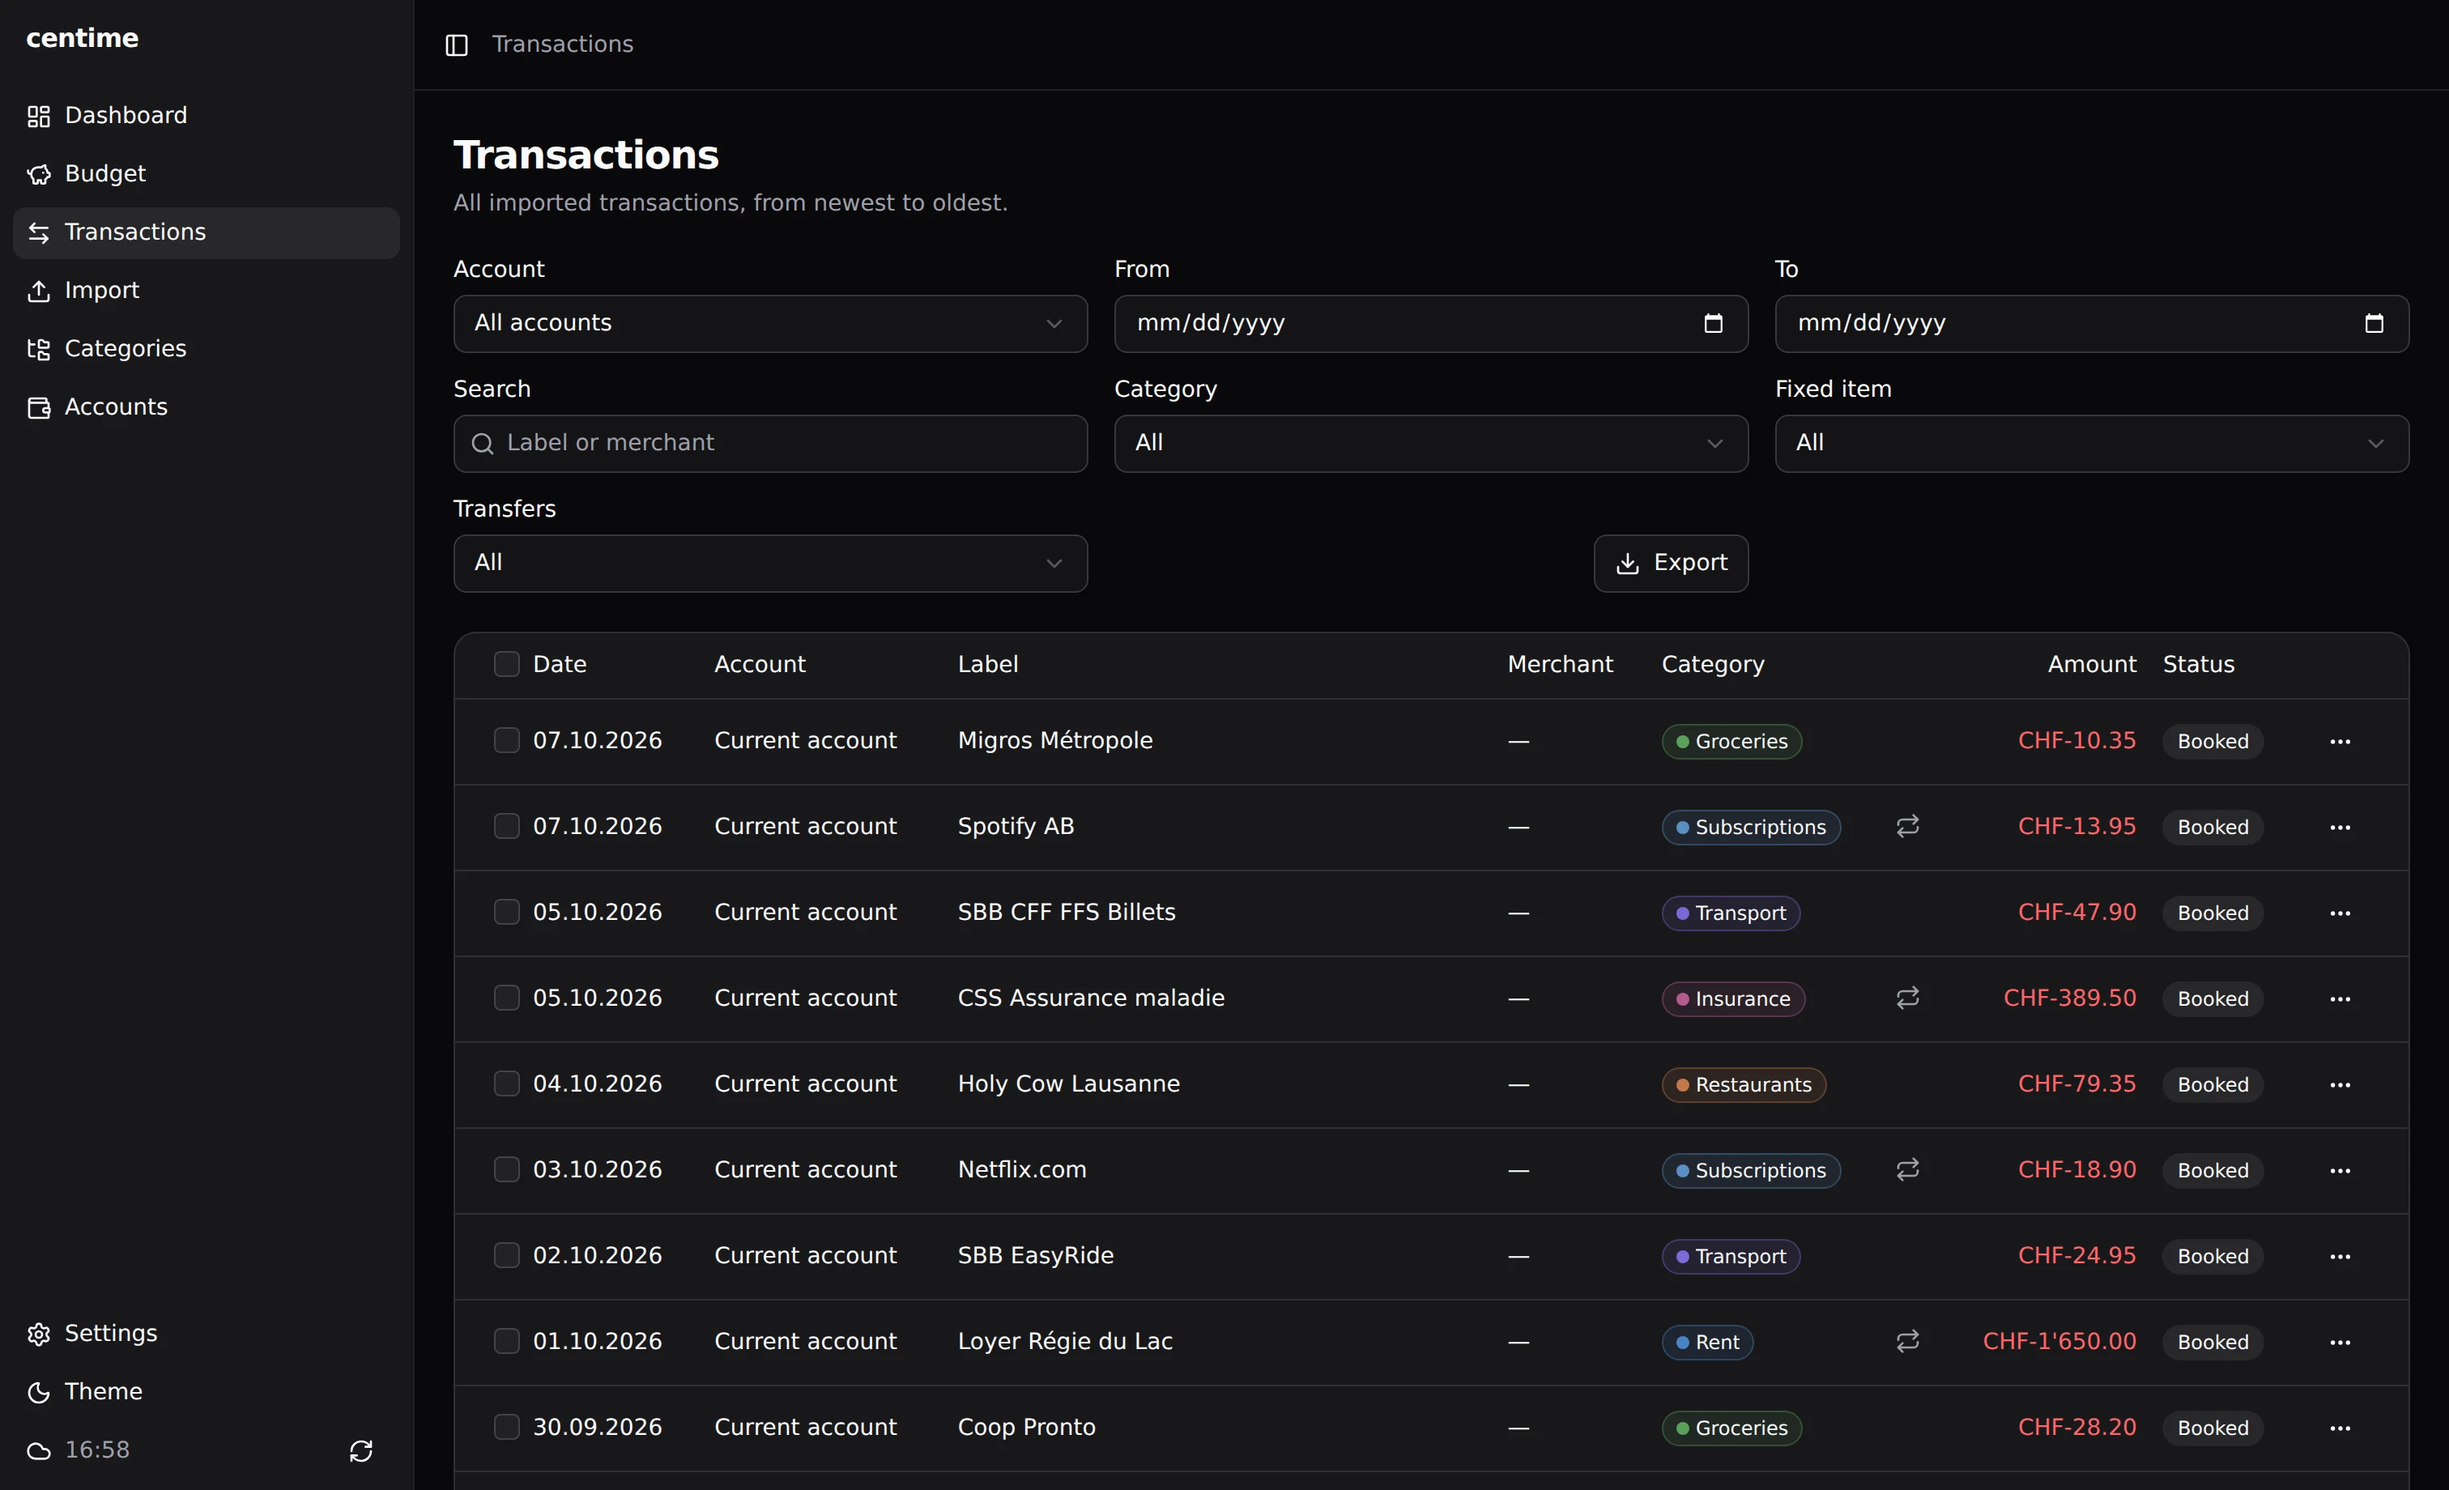
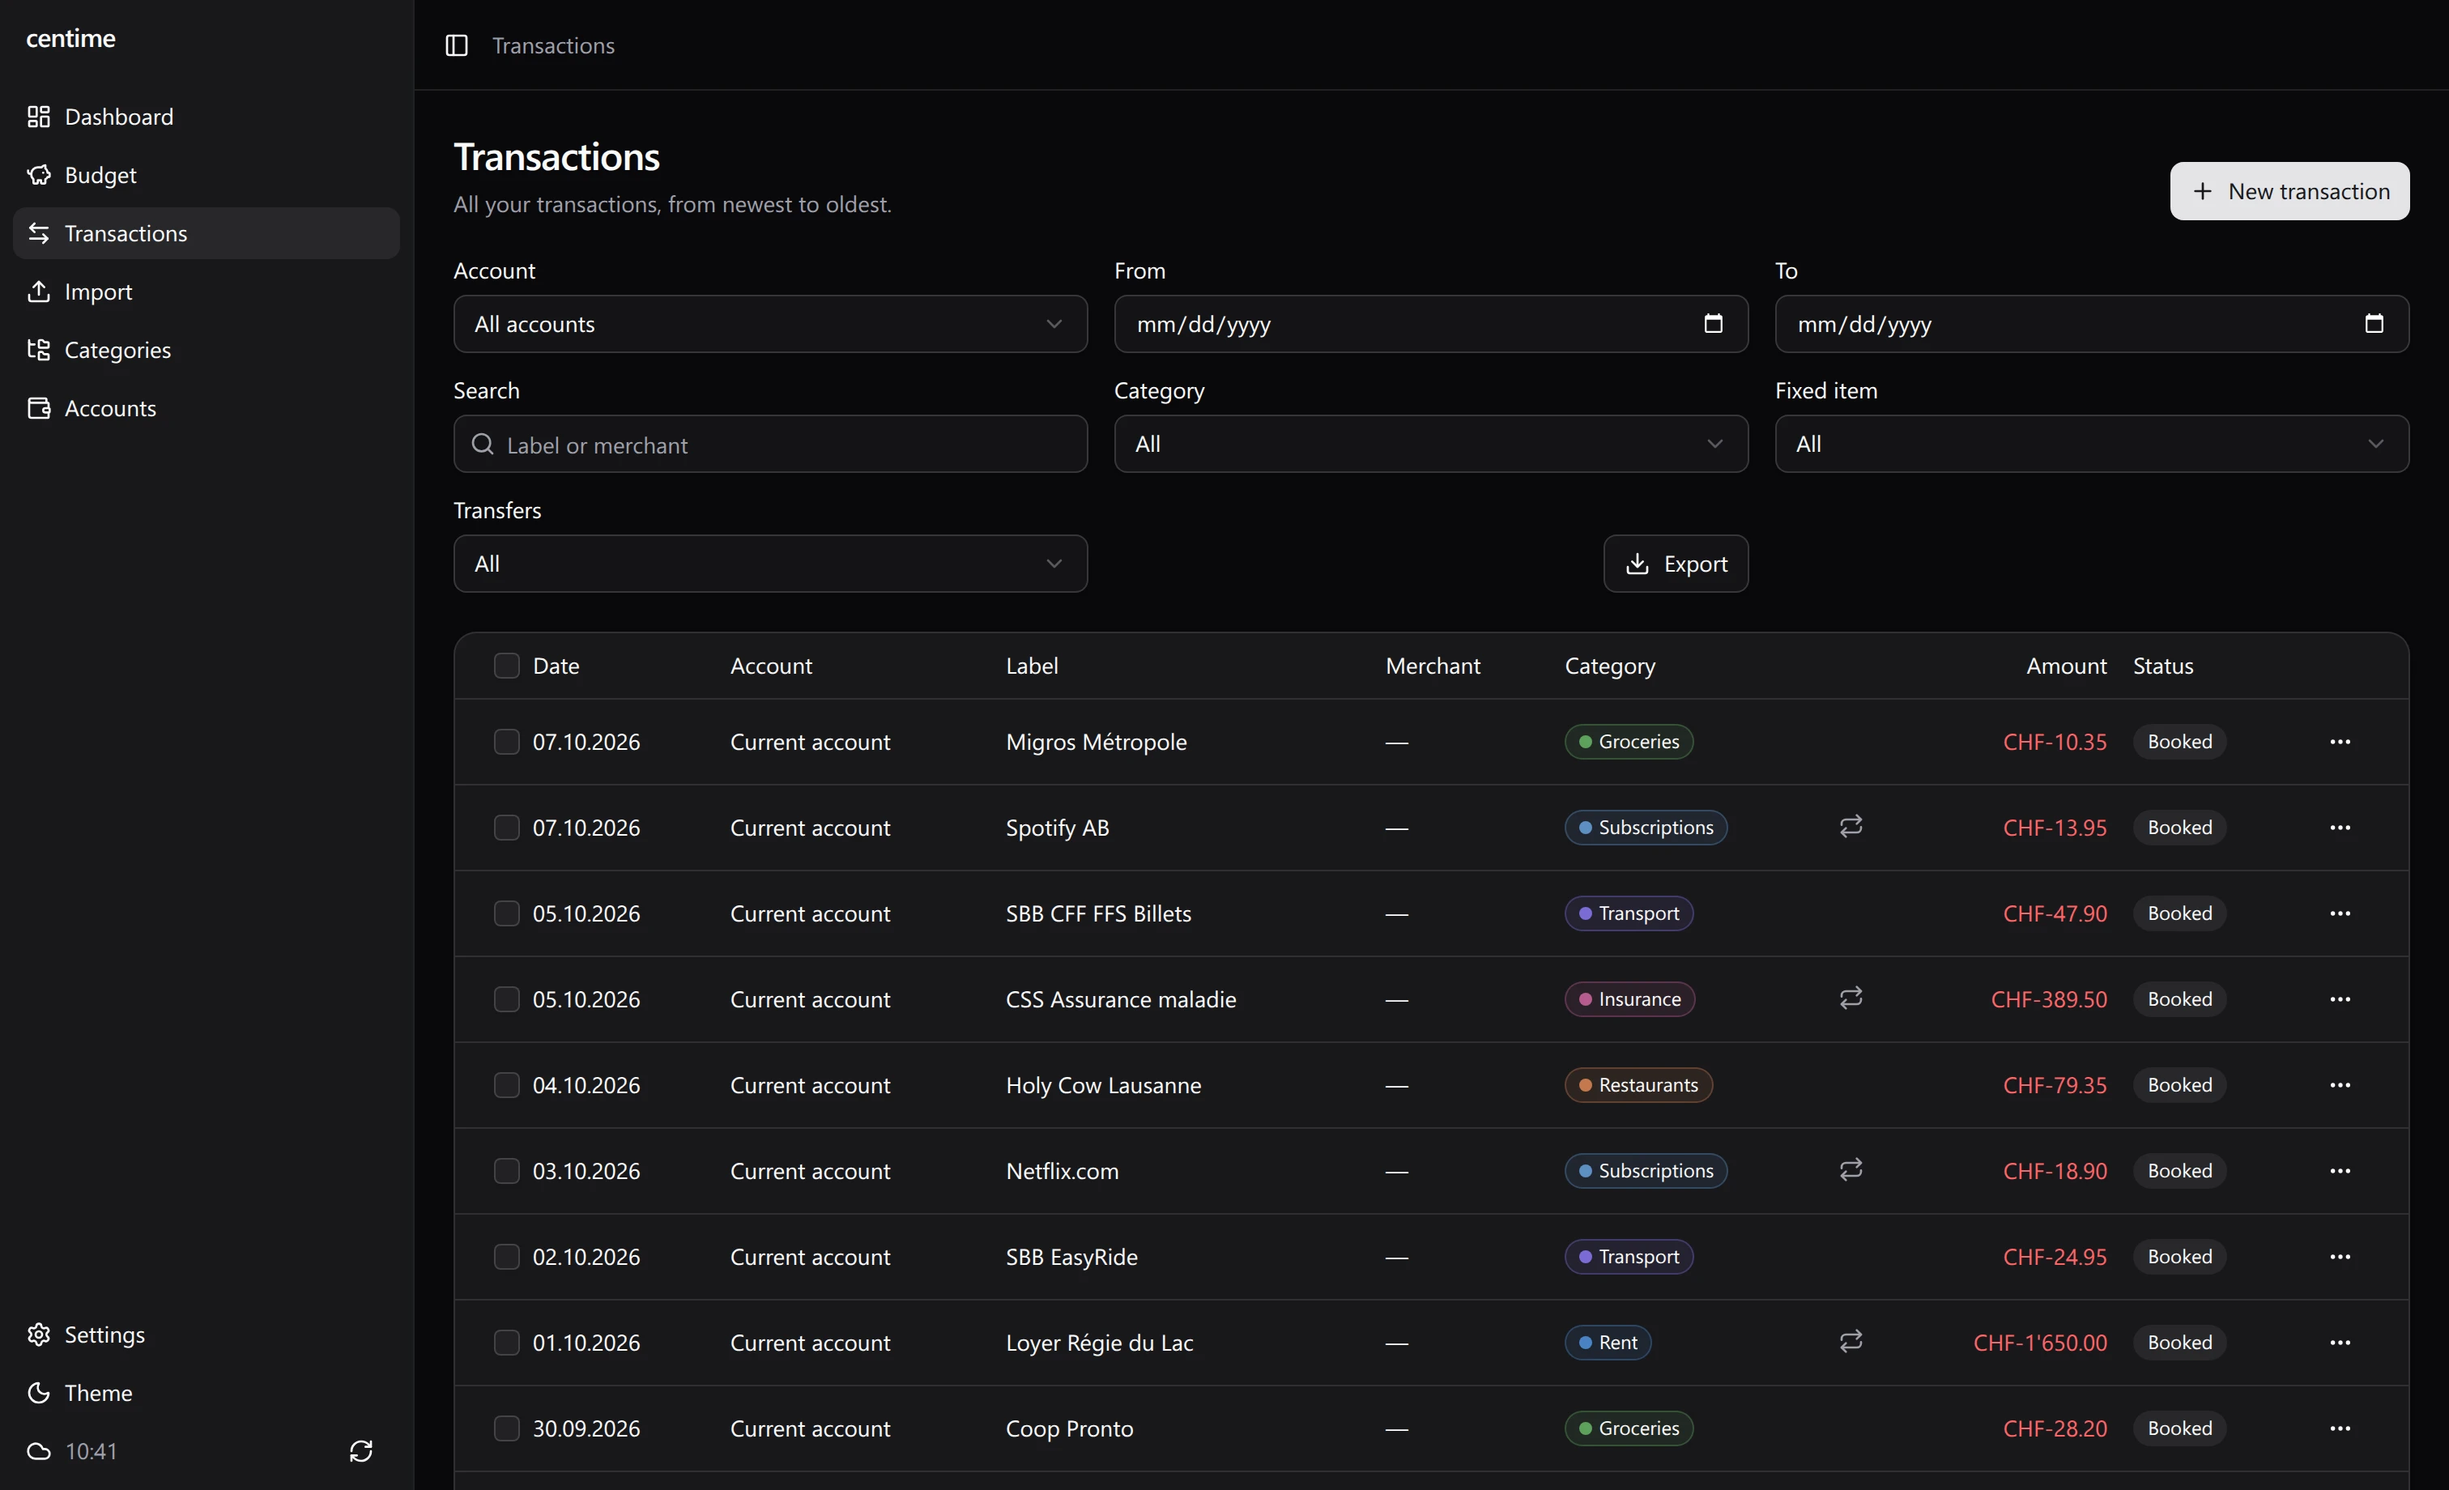
chore(release): v0.2.0

diff --git a/site/docs/desktop.html b/site/docs/desktop.html
@@ -20,6 +20,10 @@
 <h2>Install a release</h2>
 <p>Installers are attached to each tagged version. They are <strong>not code-signed</strong> yet, so your OS warns you on first launch:</p>
 <ul><li><strong>Windows</strong>: SmartScreen shows “Windows protected your PC”. Click <strong>More info</strong>, then <strong>Run anyway</strong>.</li><li><strong>macOS</strong>: Gatekeeper refuses to open the app. Right-click (or Control-click) the app, choose <strong>Open</strong>, then confirm. If it still says the app is damaged, run <code>xattr -dr com.apple.quarantine /Applications/centime.app</code>.</li><li><strong>Linux</strong>: no warning. For an AppImage, make it executable first: <code>chmod +x centime_*.AppImage</code>.</li></ul>
+<h2>Updates</h2>
+<p><strong>Settings › Updates</strong> shows the installed version and compares it with the latest release on GitHub. The check runs when the page opens, at most once an hour, and on demand. It only reads the public release manifest.</p>
+<ul><li><strong>Desktop</strong>: the app downloads the signed package, installs it and restarts.</li><li><strong>Android</strong>: the card downloads the <code>.apk</code> of the release, which Android installs over the current app.</li><li><strong>Web</strong>: the card links to the release, since the version served is the one deployed on your server.</li></ul>
+<p>An update only installs if it is signed with the project key, so a package from anywhere else is refused.</p>
 <h2>Build it</h2>
 <p>Requirements: stable Rust, and the <a href="https://v2.tauri.app/start/prerequisites/">Tauri system dependencies</a> (WebView2 on Windows, Xcode Command Line Tools on macOS, WebKitGTK 4.1 on Linux).</p>
 <pre class="code"><code>bun run desktop:dev     # development window

diff --git a/site/docs/encryption.html b/site/docs/encryption.html
@@ -21,6 +21,12 @@
 <li><strong>Derived values</strong> (HKDF-SHA-256, salt <code>centime/v1</code>): a public user id, an auth secret and an AES-256-GCM key.</li>
 <li><strong>Sealed blobs</strong>: random 12-byte IV, format version byte, user id bound as additional authenticated data.</li>
 <li><strong>Authentication</strong>: <code>Authorization: Bearer &lt;userId&gt;.&lt;secret&gt;</code>. The server stores only the SHA-256 of the secret and compares in constant time. No password, no session.</li></ul>
+<h2>Pairing another device with a QR code</h2>
+<p>Typing the recovery key on a phone is painful, so an already configured device can hand it over.</p>
+<ol><li>On the web or desktop app, open <strong>Settings › Encryption key</strong> and click <strong>Show QR code</strong>. It encodes a <code>centime://link?v=1&amp;k=&lt;key&gt;&amp;s=&lt;server&gt;</code> URI: the recovery key and the server address, if one is configured.</li>
+<li>On the Android app's first launch, choose <strong>Scan a QR code</strong> and point the camera at it.</li>
+<li>The key and the server are saved on the phone, which then syncs like any other device.</li></ol>
+<p>The QR code carries the key in clear text: anyone who photographs it can read your data. Hide it again once the phone is paired.</p>
 <h2>Synchronization</h2>
 <p>The server is a dumb, ordered, append-only log. Clients do the merging.</p>
 <ol><li><strong>Pull</strong>: read the log from the stored cursor, decrypt each entry and apply its rows.</li>

diff --git a/site/docs/getting-started.html b/site/docs/getting-started.html
@@ -38,6 +38,7 @@ bun run dev</code></pre>
 <ol><li>The app asks for a key. Choose <strong>create a new one</strong> and store the displayed recovery key somewhere safe, or <strong>enter an existing one</strong> to join your data from another device.</li>
 <li>Create an account for your bank, then <a href="importing.html">import a statement</a>.</li>
 <li>Set up <a href="budgets.html">categories, rules and budgets</a>.</li></ol>
+<p>On Android, the first screen also offers <strong>Scan a QR code</strong>: an already configured device hands over the key and the server address, so there is nothing to type. See <a href="encryption.html">Encryption and sync</a>.</p>
 <div class="note"><strong>Keep your recovery key.</strong> Anyone holding it can read your data, and losing it makes the data unrecoverable. The server cannot help you.</div>
 <nav class="pager"><span></span><a href="importing.html">Importing transactions →</a></nav></main></div>
 <footer class="foot"><div class="wrap">Centime is free software under the <a href="https://github.com/adrien-cardinale/centime/blob/main/LICENSE">GNU AGPL-3.0</a>. <a href="https://github.com/adrien-cardinale/centime">Source on GitHub</a>.</div></footer>

diff --git a/CHANGELOG.md b/CHANGELOG.md
@@ -4,13 +4,19 @@ All notable changes to centime are documented here. The format follows [Keep a C
 
 The section matching the released version is attached automatically as the GitHub release notes.
 
+## [0.2.0] - 2026-10-10
+
+### Added
+
+- Automatic updates: **Settings › Updates** shows the installed version and compares it with the latest release. The desktop app downloads the signed package, installs it and restarts; the Android app downloads the `.apk`; the browser version links to the release.
+- Pairing by QR code: **Settings › Encryption key** shows a QR code holding the encryption key and the server address, and the Android app can scan it on first launch instead of typing the key.
+- Transactions: **New transaction** records an operation by hand (account, date, label, merchant, amount, category), for what no statement carries.
+
 ## [0.1.1] - 2026-10-08
 
 ### Added
 
 - Android app: CI now builds a signed `centime_<version>.apk` (arm64 + arm32) and attaches it to each release.
-- Pairing by QR code: **Settings › Connect another device** shows a QR code holding the recovery key and the server address, and the Android app can scan it on first launch instead of typing the key.
-- Transactions: **New transaction** records an operation by hand (account, date, label, merchant, amount, category), for what no statement carries.
 - Transactions: on small screens, the table becomes a card list and the filters collapse behind a **Filters** button showing the number of active filters.
 
 ### Changed

diff --git a/README.md b/README.md
@@ -232,7 +232,7 @@ The master key is stored on the device, next to the database (`master.key`) in t
 
 Typing the recovery key on a phone is painful, so an already configured device can hand it over:
 
-1. On the web or desktop app, open **Settings › Connect another device** and click **Show QR code**. It encodes a `centime://link?v=1&k=<key>&s=<server>` URI: the recovery key, without its dashes, and the server address if one is configured.
+1. On the web or desktop app, open **Settings › Encryption key** and click **Show QR code**. It encodes a `centime://link?v=1&k=<key>&s=<server>` URI: the recovery key, without its dashes, and the server address if one is configured.
 2. On the Android app's first launch, choose **Scan a QR code** and point the camera at it. The app asks for camera access the first time.
 3. The key and the server are saved on the phone, which then synchronizes like any other device.
 
